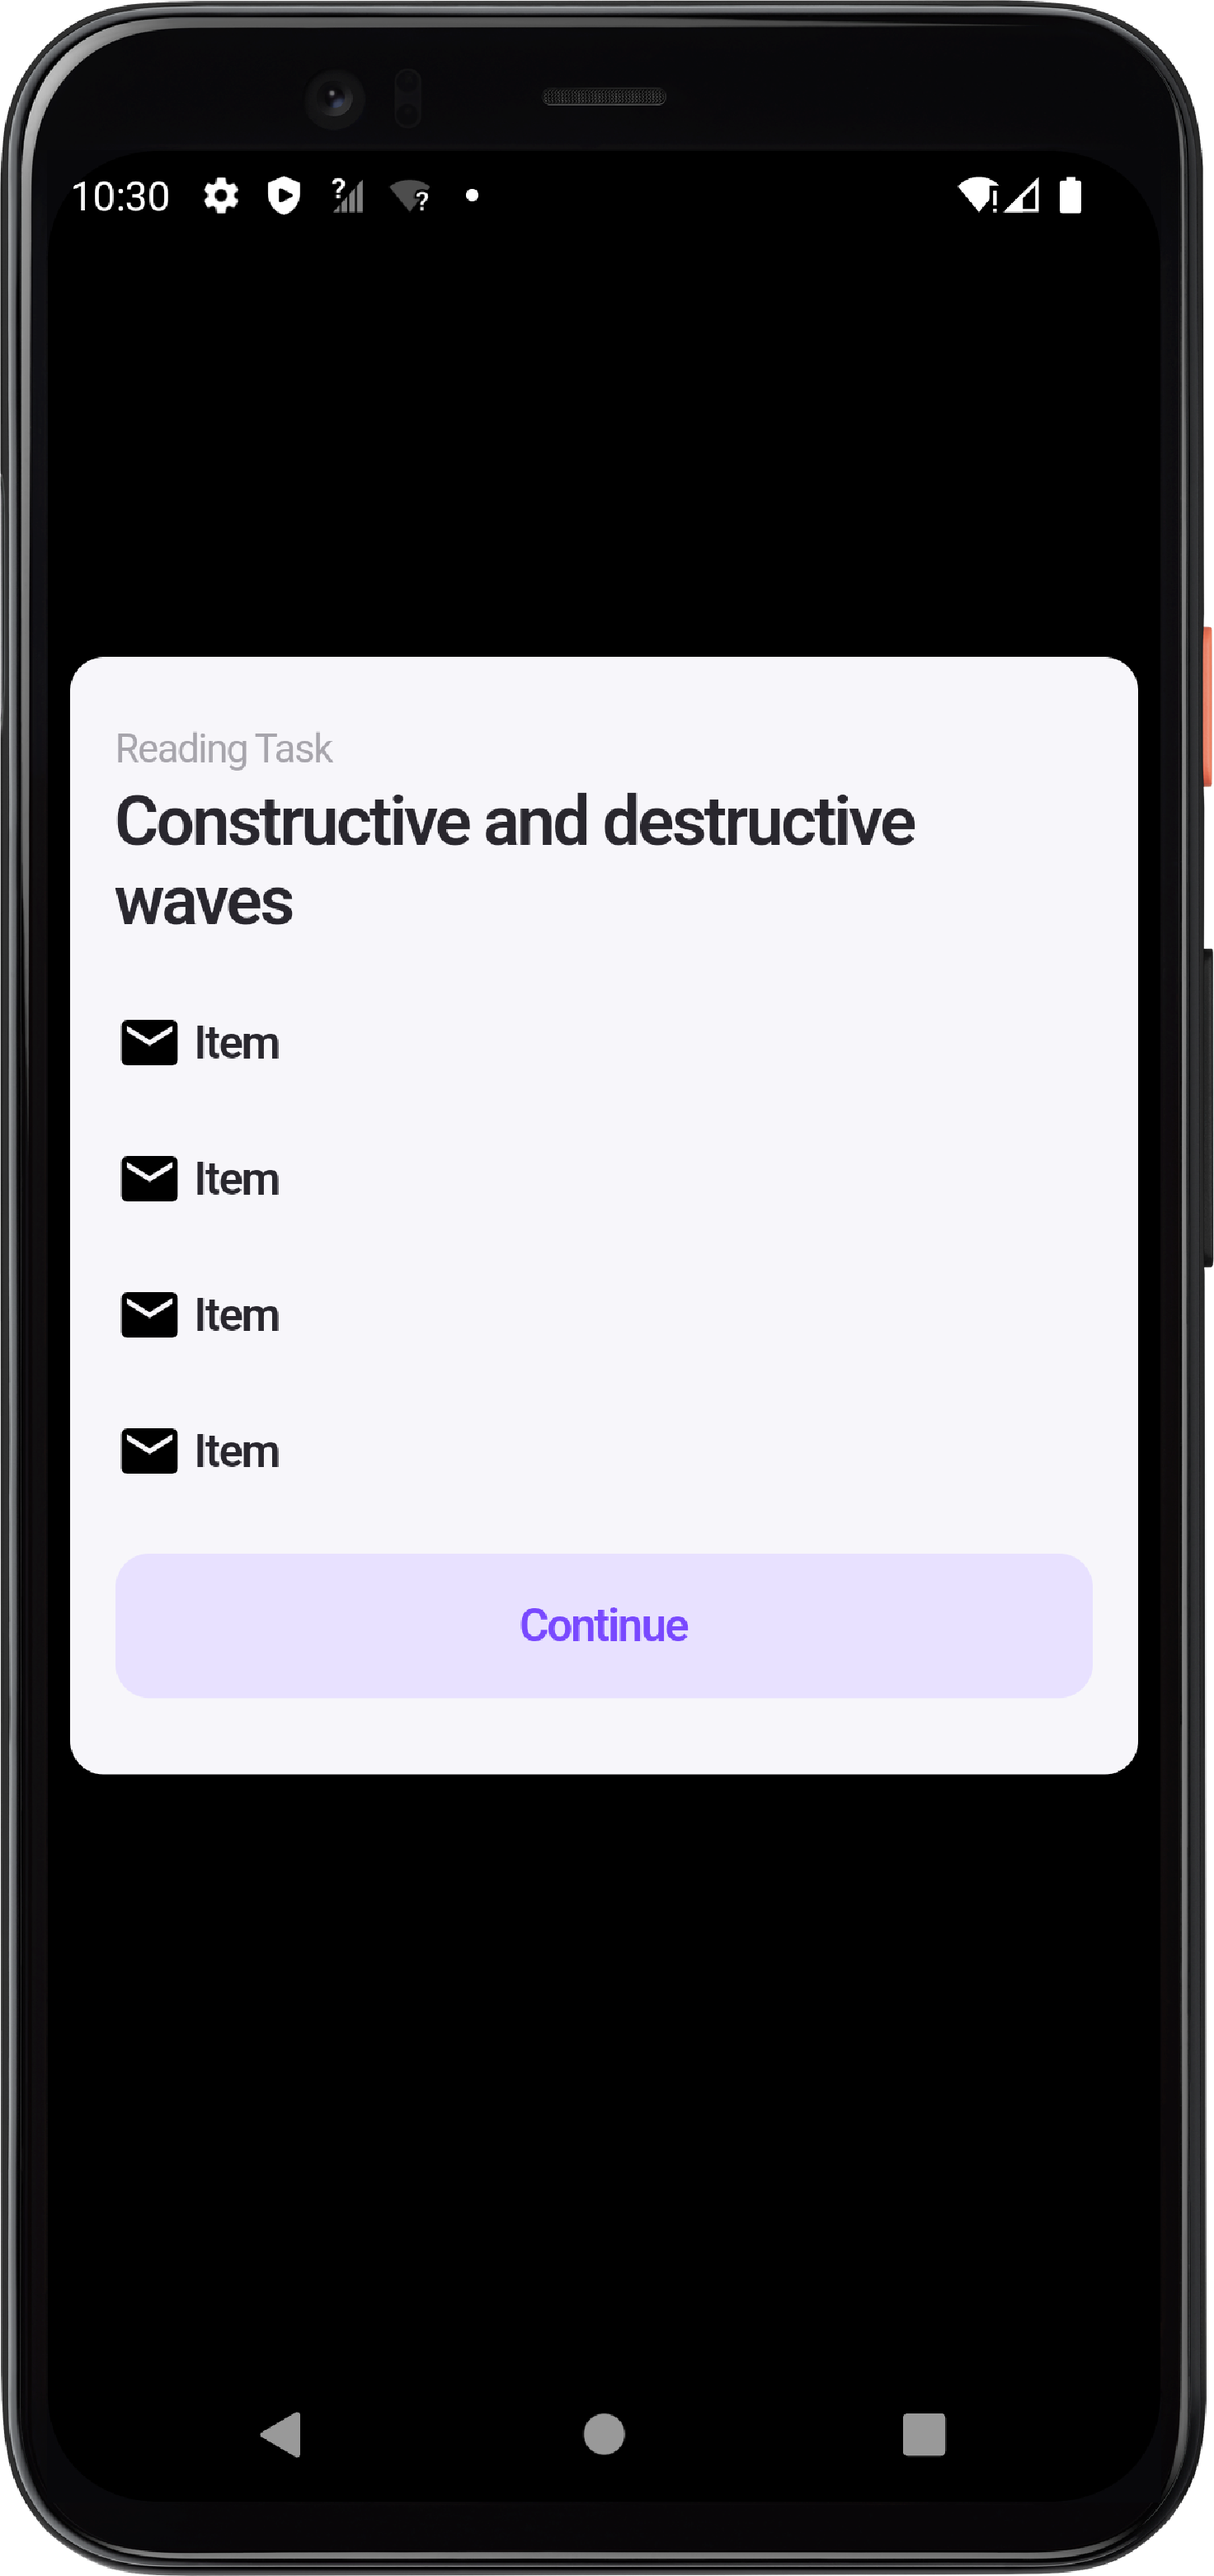
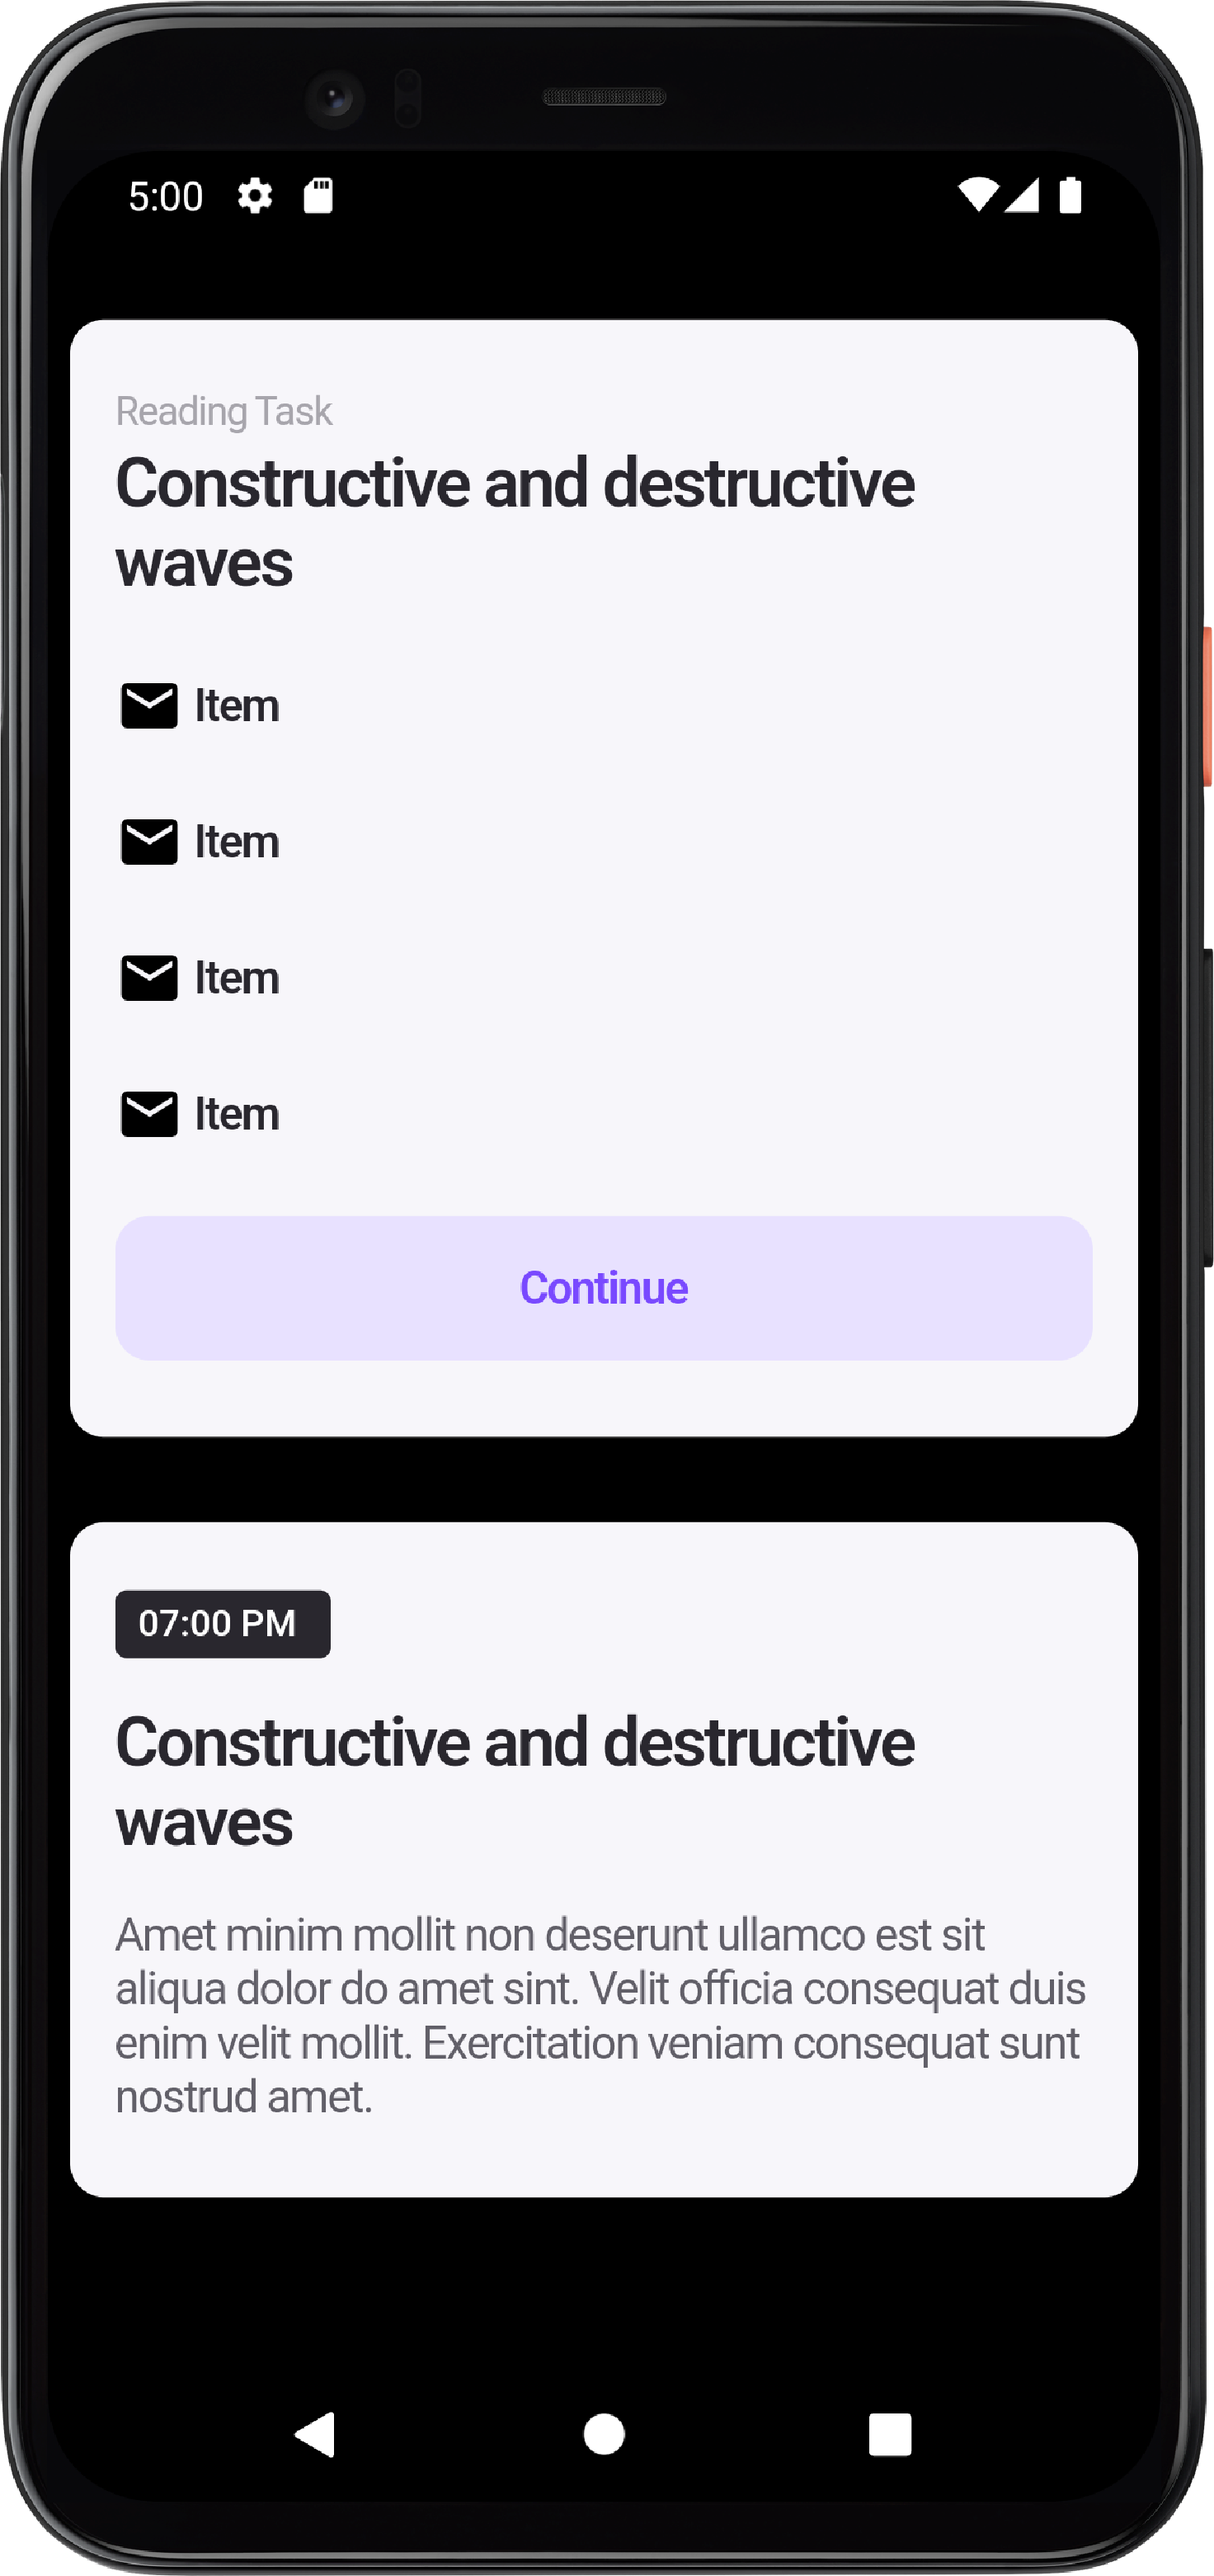
add Card 14

diff --git a/lib/Cards/card_14.dart b/lib/Cards/card_14.dart
@@ -1,0 +1,79 @@
+import 'package:flutter/material.dart';
+import 'package:gap/gap.dart';
+
+
+class Card14 extends StatelessWidget {
+  const Card14({Key? key}) : super(key: key);
+
+  @override
+  Widget build(BuildContext context) {
+    return Container(
+      width: double.infinity,
+      height: 238,
+      padding: const EdgeInsets.symmetric(horizontal: 16, vertical: 24),
+      decoration: ShapeDecoration(
+        color:  const Color(0xFFF7F6FA),
+        shape: RoundedRectangleBorder(
+          borderRadius: BorderRadius.circular(12),
+        ),
+      ),
+      child: Column(
+        crossAxisAlignment: CrossAxisAlignment.start,
+        children: [
+          Container(
+            width: 76,
+            height: 24,
+            padding: const EdgeInsets.symmetric(horizontal: 8, vertical: 4),
+            decoration: ShapeDecoration(
+              color: const Color(0xFF29272E),
+              shape: RoundedRectangleBorder(borderRadius: BorderRadius.circular(4)),
+            ),
+            child: const Row(
+              mainAxisSize: MainAxisSize.min,
+              mainAxisAlignment: MainAxisAlignment.start,
+              crossAxisAlignment: CrossAxisAlignment.start,
+              children: [
+                Text(
+                  '07:00 PM',
+                  style: TextStyle(
+                    color: Colors.white,
+                    fontSize: 13,
+                    fontFamily: 'Inter',
+                    fontWeight: FontWeight.w500,
+                    height: 0,
+                  ),
+                ),
+              ],
+            ),
+          ),
+          const Gap(16),
+          const Text(
+            'Constructive and destructive waves',
+            style: TextStyle(
+              color: Color(0xFF29272E),
+              fontSize: 24,
+              fontFamily: 'Inter',
+              fontWeight: FontWeight.w600,
+              height: 0,
+              letterSpacing: -0.96,
+            ),
+          ),
+
+          const Gap(16),
+          const Text(
+            'Amet minim mollit non deserunt ullamco est sit aliqua dolor do amet sint. Velit officia consequat duis enim velit mollit. Exercitation veniam consequat sunt nostrud amet.',
+            style: TextStyle(
+              color: Color(0xFF615F68),
+              fontSize: 16,
+              fontFamily: 'Inter',
+              fontWeight: FontWeight.w400,
+              height: 0,
+              letterSpacing: -0.64,
+            ),
+          )
+        ],
+      ),
+    );
+
+  }
+}

diff --git a/lib/Screens/view_4.dart b/lib/Screens/view_4.dart
@@ -1,5 +1,6 @@
 import 'package:flutter/material.dart';
 import 'package:flutter_ui_card_collections/Cards/card_13.dart';
+import 'package:flutter_ui_card_collections/Cards/card_14.dart';
 import 'package:gap/gap.dart';
 class View4 extends StatelessWidget {
   const View4({Key? key}) : super(key: key);
@@ -15,6 +16,7 @@ class View4 extends StatelessWidget {
           children: [
             Card13(),
             Gap(30),
+            Card14()
 
 
 
